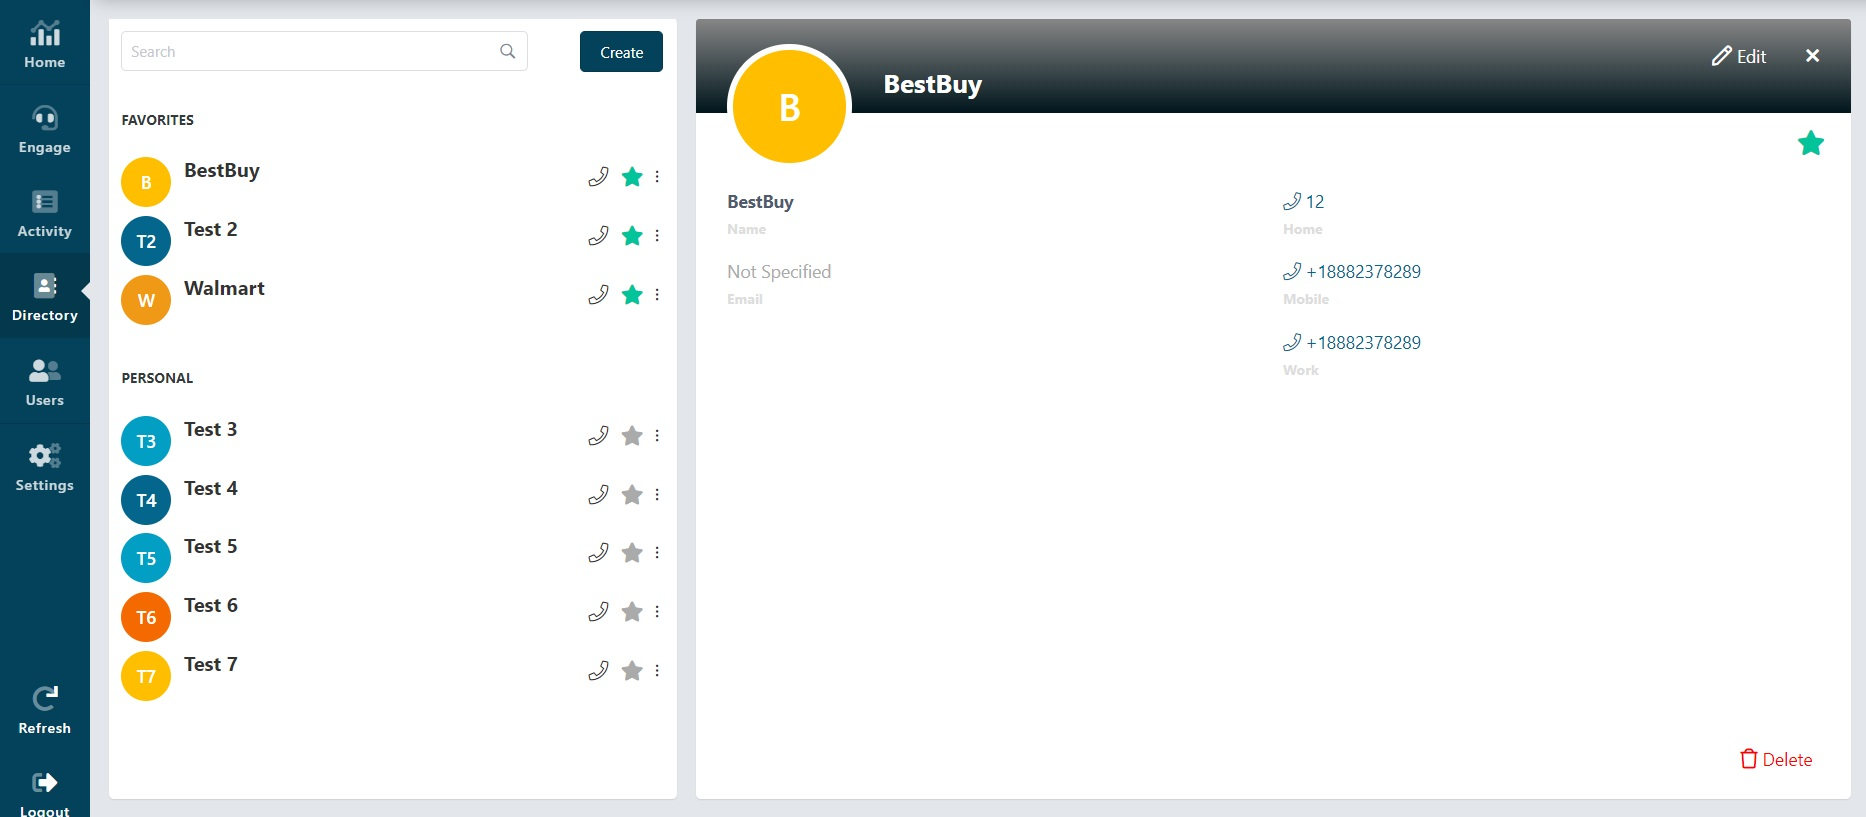
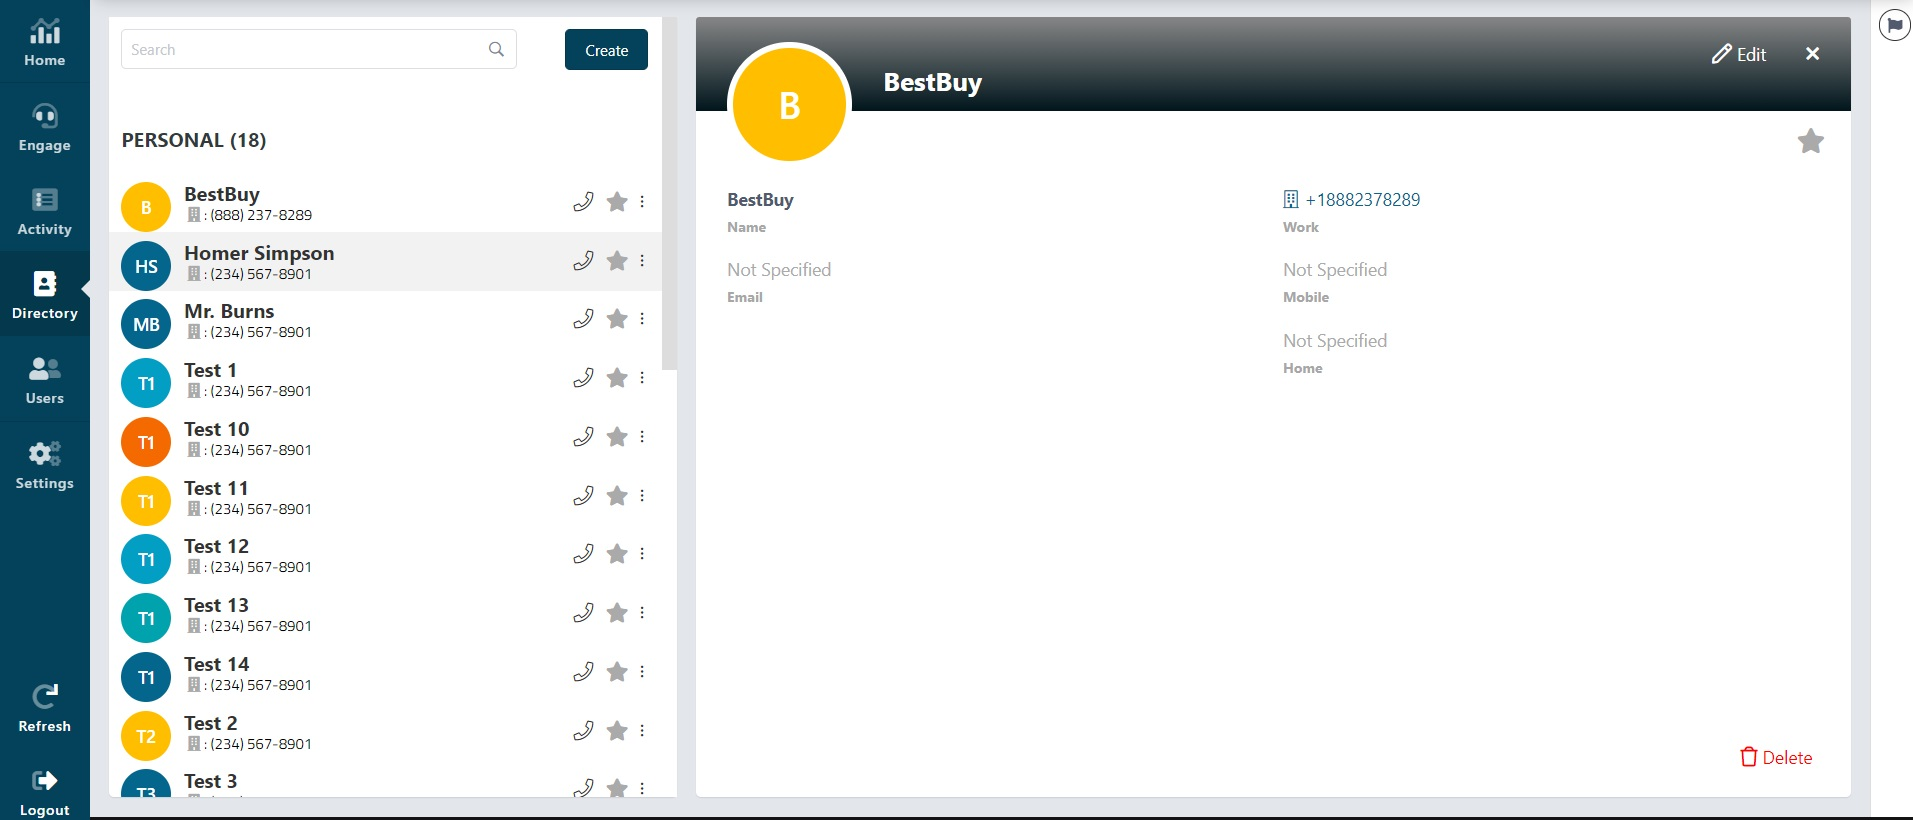
updated directory page

diff --git a/docs/_pages/directory.md b/docs/_pages/directory.md
@@ -38,7 +38,7 @@ By clicking the **Edit** option you can add more information, change it, or dele
 
 #### Favoriting contacts
 
-This option will mark the contact from your Personal list as Favorite. This will enable you to see and quickly reach your Favorite contacts for calling in the Engage tab. 
+This option will mark the contact from your Personal list as Favorite. This will enable you to see and quickly reach your Favorite contacts for calling in the Engage tab. The star icon will get green coloured when the contact is added as Favorite.
 
 <figure>
    <img src="{{ '/assets/images/favorites-directory.jpg' }}" alt="Favorites">
